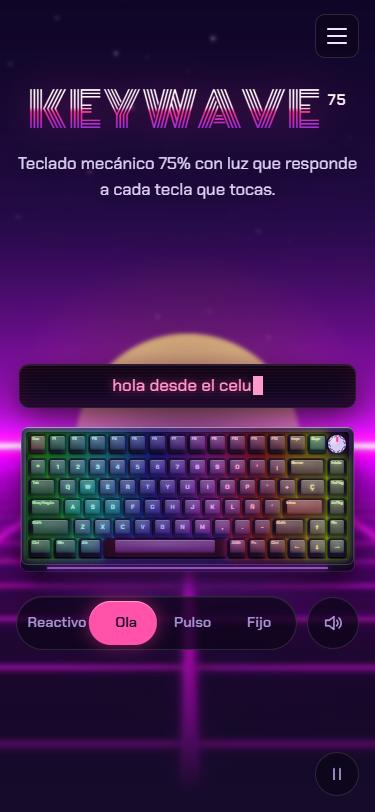
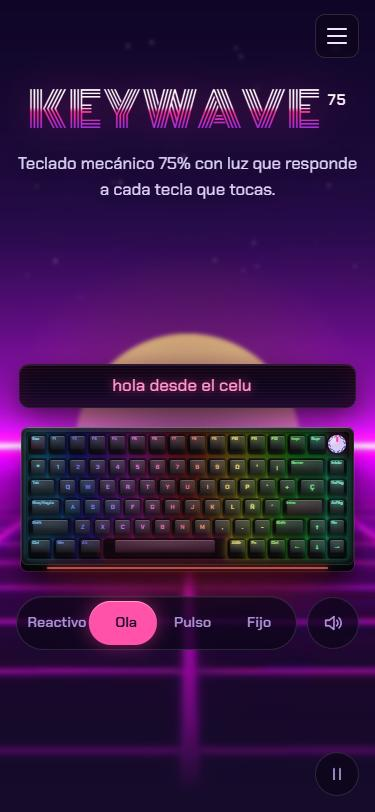
Teclado negro RGB, de frente (elegido entre 4 estilos y 3 ángulos)
- Keycaps y carcasa negro mate; las leyendas brillan del color de la luz
- Teclado casi de frente y más grande en la columna derecha; el tamaño
  de tecla se ajusta al ancho de la columna para que no se salga de la
  carcasa
- Comparación de estilos y ángulos en docs/propuestas/teclado/

diff --git a/css/style.css b/css/style.css
@@ -280,14 +280,14 @@ a { color: inherit; }
   padding: calc(var(--u) * .36);
   border-radius: calc(var(--u) * .34);
   background:
-    linear-gradient(180deg, #ffffff2e 0, #ffffff0a calc(var(--u) * .1), transparent calc(var(--u) * .3)),
-    repeating-linear-gradient(90deg, #ffffff06 0 1px, transparent 1px 3px), /* aluminio cepillado */
-    linear-gradient(165deg, #46326f, #24153f 55%, #170c2c);
+    linear-gradient(180deg, #ffffff1f 0, #ffffff06 calc(var(--u) * .1), transparent calc(var(--u) * .25)),
+    repeating-linear-gradient(90deg, #ffffff04 0 1px, transparent 1px 3px), /* aluminio cepillado */
+    linear-gradient(165deg, #232329, #121215 60%, #0b0b0d);
   box-shadow:
-    0 0 0 1px #ffffff2b inset,
-    0 1px 0 #ffffff59 inset,
+    0 0 0 1px #ffffff1c inset,
+    0 1px 0 #ffffff38 inset,
     0 -3px 8px #00000066 inset,
-    0 calc(var(--u) * .3) 0 #120826,                 /* grosor del frente */
+    0 calc(var(--u) * .3) 0 #050506,                 /* grosor del frente */
     0 calc(var(--u) * .3) 0 1px #ffffff12,
     0 calc(var(--u) * 1.1) calc(var(--u) * 1.4) -.3rem #000d;
   transform: rotateX(calc(var(--tilt) + var(--rx))) rotateY(var(--ry));
@@ -299,8 +299,8 @@ a { color: inherit; }
 .board::before {
   content: ""; position: absolute; inset: calc(var(--u) * .27);
   border-radius: calc(var(--u) * .16);
-  background: linear-gradient(180deg, #07030e, #0d0619);
-  box-shadow: inset 0 2px 6px #000d, 0 1px 0 #ffffff14;
+  background: #050506;
+  box-shadow: inset 0 2px 6px #000d, 0 1px 0 #ffffff10;
 }
 /* tira de luz en el frente (toma el color promedio de las teclas) */
 .board::after {
@@ -319,7 +319,7 @@ a { color: inherit; }
 /* Cada tecla: luz difusa debajo (::before) + keycap esculpido (.cap) */
 .key {
   --w: 1; --h: var(--accent-h); --l: 0;
-  --top: #37285d; --skirt: #21163f;          /* colores del keycap */
+  --top: #1c1c21; --skirt: #101013;          /* keycap negro mate */
   position: relative;
   width: calc(var(--w) * var(--u));
   height: var(--u);
@@ -328,16 +328,16 @@ a { color: inherit; }
   cursor: pointer;
   -webkit-tap-highlight-color: transparent;
 }
-.key--mod  { --top: #2d2049; --skirt: #1a1131; }
-.key--rosa { --top: #5e1f52; --skirt: #3b0f34; }   /* acentos de la versión de Gabriel */
-.key--cian { --top: #18495d; --skirt: #0d2f3e; }
+.key--mod  { --top: #18181c; --skirt: #0d0d10; }
+.key--rosa { --top: #2c1624; --skirt: #180b13; }   /* acentos de la versión de Gabriel, en tono oscuro */
+.key--cian { --top: #13242b; --skirt: #0a1418; }
 
 /* luz bajo la tecla: solo cambia opacidad → barato de animar */
 .key::before {
   content: ""; position: absolute; inset: calc(var(--u) * -.05);
   border-radius: calc(var(--u) * .2);
   background: hsl(var(--h) 100% 58%);
-  opacity: var(--l);
+  opacity: calc(var(--l) * .75);
   filter: blur(calc(var(--u) * .2));
 }
 /* faldón del keycap (los lados que se ven en ángulo) */
@@ -363,18 +363,18 @@ a { color: inherit; }
   left: 9%; right: 9%; top: 6%; bottom: 18%;
   border-radius: calc(var(--u) * .1);
   background:
-    linear-gradient(hsl(var(--h) 100% 66% / calc(var(--l) * .42)), hsl(var(--h) 100% 54% / calc(var(--l) * .3))),
-    radial-gradient(ellipse 85% 70% at 50% 30%, #ffffff1f, transparent 70%),
-    linear-gradient(180deg, color-mix(in srgb, var(--top) 85%, #fff), var(--top));
+    linear-gradient(hsl(var(--h) 100% 60% / calc(var(--l) * .2)), transparent),
+    radial-gradient(ellipse 85% 70% at 50% 30%, #ffffff12, transparent 70%),
+    linear-gradient(180deg, color-mix(in srgb, var(--top) 90%, #fff), var(--top));
   box-shadow: inset 0 1px 0 #ffffff2e, inset 0 -1px 2px #0007;
 }
-/* leyenda doubleshot: la luz pasa a través */
+/* leyenda RGB: la letra es la luz; siempre de color y más brillante al iluminarse */
 .legend {
   position: relative;
   font: 600 calc(var(--u) * .2)/1 var(--body);
-  color: hsl(var(--h) 100% calc(80% + var(--l) * 18%));
-  text-shadow: 0 0 calc(var(--l) * var(--u) * .28) hsl(var(--h) 100% 60%);
-  opacity: calc(.62 + var(--l) * .38);
+  color: hsl(var(--h) 100% calc(60% + var(--l) * 30%));
+  text-shadow: 0 0 calc(var(--u) * (.1 + var(--l) * .35)) hsl(var(--h) 100% 55%);
+  opacity: calc(.72 + var(--l) * .28);
   white-space: nowrap;
 }
 .key--alpha .cap { justify-content: center; align-items: center; padding: 0 0 calc(var(--u) * .1); }
@@ -606,7 +606,7 @@ a { color: inherit; }
   .hero { place-items: center; padding: 6rem clamp(2rem, 5vw, 5rem) 4rem; }
 
   .hero__content {
-    --u: clamp(22px, 2.5vw, 44px);
+    --u: clamp(22px, 2.85vw, 46px);   /* 16,7 teclas de ancho caben en la columna derecha */
     display: grid;
     grid-template-columns: minmax(0, .9fr) minmax(0, 1.25fr);
     grid-template-areas:
@@ -623,15 +623,11 @@ a { color: inherit; }
   .hero__lead     { grid-area: lead; max-width: 26ch; text-shadow: none; color: #d9ccf5; }
   .screen         { grid-area: pantalla; justify-self: start; justify-content: flex-start; width: 100%; min-width: 0; max-width: 28rem; padding: .5rem 1.2rem; }
   .screen__ppm    { display: none; }
-  .board-wrap     { grid-area: teclado; align-self: center; justify-self: center; perspective: none; }
+  .board-wrap     { grid-area: teclado; align-self: center; justify-self: center; }
   .hero__controls { grid-area: controles; justify-content: flex-start; width: min(100%, 28rem); margin-top: 1.2rem; }
 
-  /* teclado en isométrico, como una pieza flotando sobre la grilla */
-  .board {
-    transform: rotateX(calc(48deg + var(--tilt) * .3)) rotateZ(-24deg) rotateY(var(--ry));
-    transform-origin: 50% 50%;
-  }
-  .board-wrap::after { bottom: calc(var(--u) * -.4); left: 10%; right: 10%; height: calc(var(--u) * 3); }
+  /* teclado casi de frente, apenas inclinado hacia atrás */
+  .board { transform: rotateX(calc(14deg + var(--tilt) * .3 + var(--rx))) rotateY(var(--ry));   width: max-content; }
 
   /* el sol queda detrás del teclado, en la columna derecha */
   .scene__sun, .scene__sun-glow { left: 64%; }

diff --git a/README.md b/README.md
@@ -56,6 +56,9 @@ movimiento). El detalle, con citas y medidas, está en [docs/revision-diseno-her
 Se probaron 4 direcciones para el hero (Vitrina, Arcade 80s, Editorial y Vaporwave pastel) y se eligió
 **Editorial**: en pantallas anchas, el texto va a la izquierda y el teclado flota en isométrico a la derecha,
 delante del sol. En el celular queda en una columna. Las capturas de las 4 están en [docs/propuestas/](docs/propuestas/).
+Para el teclado se compararon 4 estilos (Cristal, Negro RGB, Blanco perla, Retro 80s) y 3 ángulos;
+se eligió **Negro RGB, de frente**: teclas negro mate con leyendas que brillan del color de la luz.
+Comparación en [docs/propuestas/teclado/](docs/propuestas/teclado/).
 
 ## Estructura
 
